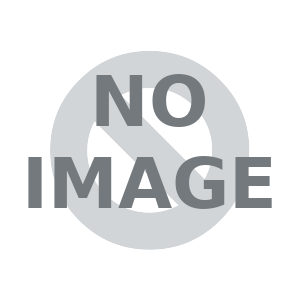
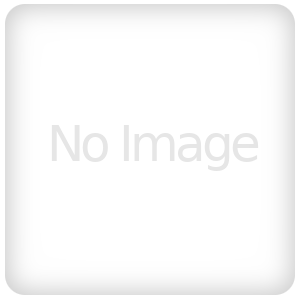
add image lightbox popup, new no image placeholder, fixes #25

diff --git a/src/main/resources/net/shrimpworks/unreal/archive/www/static/scripts/lb.js b/src/main/resources/net/shrimpworks/unreal/archive/www/static/scripts/lb.js
@@ -1,0 +1,67 @@
+(function() {
+	document.addEventListener('DOMContentLoaded', () => {
+		this.init();
+	});
+
+	/**
+	 * Create the lightbox and image elements, and add them to the body
+	 * of the document.
+	 */
+	this.init = function() {
+		this.lightbox = document.createElement('a');
+		this.img = document.createElement('img');
+
+		this.lightbox.setAttribute('href', '#_');
+		this.lightbox.setAttribute('id', 'lb');
+		this.lightbox.classList.add('lightbox');
+		this.lightbox.appendChild(this.img);
+
+		document.getElementsByTagName('body')[0].appendChild(this.lightbox);
+
+		// special case, for small native images, let's just make them bigger
+		this.img.addEventListener('load', () => {
+			if (this.img.width < 300 && this.img.height < 300) {
+				this.img.setAttribute('width', this.img.width * 2);
+				// this.img.setAttribute('height', this.img.height * 2);
+			}
+			this.img.style.top = `calc(50% - ${img.height / 2}px`;
+			this.img.style.left = `calc(50% - ${img.width / 2}px`;
+		});
+
+		/* now we can look for image links on the page */
+		this.scanImages();
+	}
+
+	/**
+	 * Search through all links to images on the page. Any image link will
+	 * have it's target appear in the lightbox, if Javascript is available,
+	 * otherwise it will function as a normal link, still supporting middle-
+	 * clicking et al.
+	 */
+	this.scanImages = function() {
+		/* find links to png, jpg and gif images */
+		const imgs = document.querySelectorAll('img.lb, a[href$=".png"], a[href$=".jpg"], a[href$=".jpeg"], a[href$=".gif"]');
+
+		/* for each link attach a click handler to set the image location and
+		   show the lightbox */
+		imgs.forEach(l => {
+			l.addEventListener('click', e => {
+				e.preventDefault();
+				if (l.hasAttribute('href')) this.setImage(l.href);
+				else this.setImage(l.src);
+				document.location = '#lb';
+			});
+			l.style.cursor = 'pointer';
+		});
+	}
+
+	/**
+	 * Set the image element source to the provided URL.
+	 */
+	this.setImage = function(img) {
+		this.img.removeAttribute('width');
+		// this.img.removeAttribute('height');
+
+		this.img.setAttribute('src', img);
+	}
+})();

diff --git a/src/main/resources/net/shrimpworks/unreal/archive/www/static/css/style.css b/src/main/resources/net/shrimpworks/unreal/archive/www/static/css/style.css
@@ -773,6 +773,35 @@ div.themes img {
 	height: 22px;
 }
 
+/*
+  lightbox image popup
+ */
+.lightbox {
+	display: none;
+	position: fixed;
+	z-index: 999;
+	width: 100%;
+	height: 100%;
+	text-align: center;
+	top: 0;
+	left: 0;
+	background: rgba(0,0,0,0.8);
+}
+
+.lightbox:target {
+	outline: none;
+	display: block;
+}
+
+.lightbox img {
+	max-width: 90%;
+	max-height: 90%;
+	position: absolute;
+}
+
+/*
+   responsive adjustments for smaller displays
+ */
 @media screen and (max-width: 1024px) {
 
 	body {

diff --git a/src/main/java/net/shrimpworks/unreal/archive/Main.java b/src/main/java/net/shrimpworks/unreal/archive/Main.java
@@ -472,15 +472,18 @@ public class Main {
 	private static void mirror(ContentManager contentManager, ManagedContentManager managed, GameTypeManager gameTypeManager, CLI cli) {
 		final DataStore mirrorStore = store(DataStore.StoreContent.CONTENT, cli);
 
-		System.out.printf("Mirroring files to %s with concurrency of %s%n", mirrorStore, cli.option("concurrency", "3"));
+		// default to mirror last 7 days of changes
+		LocalDate since = LocalDate.now().minusDays(7);
 
-		LocalDate since = LocalDate.MIN.plusDays(1);
 		try {
 			if (!cli.option("since", "").isBlank()) since = LocalDate.parse(cli.option("since", ""));
 		} catch (DateTimeParseException e) {
 			System.err.println("Failed to parse date input " + cli.option("since", ""));
 			System.exit(-1);
 		}
+
+		System.out.printf("Mirroring files added since %s to %s with concurrency of %s%n",
+						  since, mirrorStore, cli.option("concurrency", "3"));
 
 		Mirror mirror = new Mirror(
 				contentManager, gameTypeManager, managed,

diff --git a/src/main/java/net/shrimpworks/unreal/archive/content/GameTypeManager.java b/src/main/java/net/shrimpworks/unreal/archive/content/GameTypeManager.java
@@ -205,7 +205,7 @@ public class GameTypeManager {
 
 		clone.releases.stream().flatMap(r -> r.files.stream()).filter(f -> !f.synced).forEach(r -> {
 			Path f = path(gameType).resolve(r.localFile);
-			syncReleaseFile(contentStore, gameType, r, f, success);
+			syncReleaseFile(contentStore, clone, r, f, success);
 		});
 
 		if (success[0]) {
